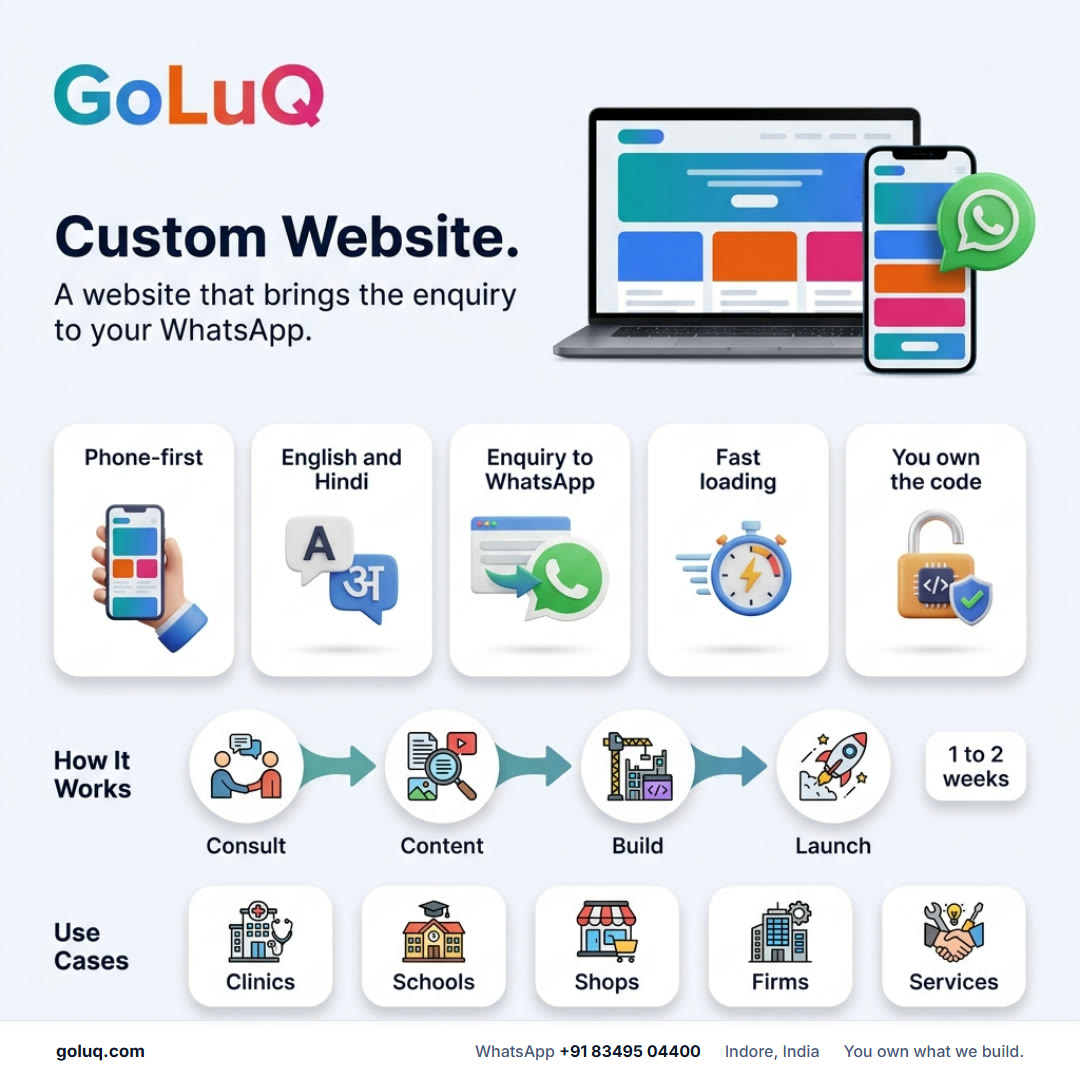
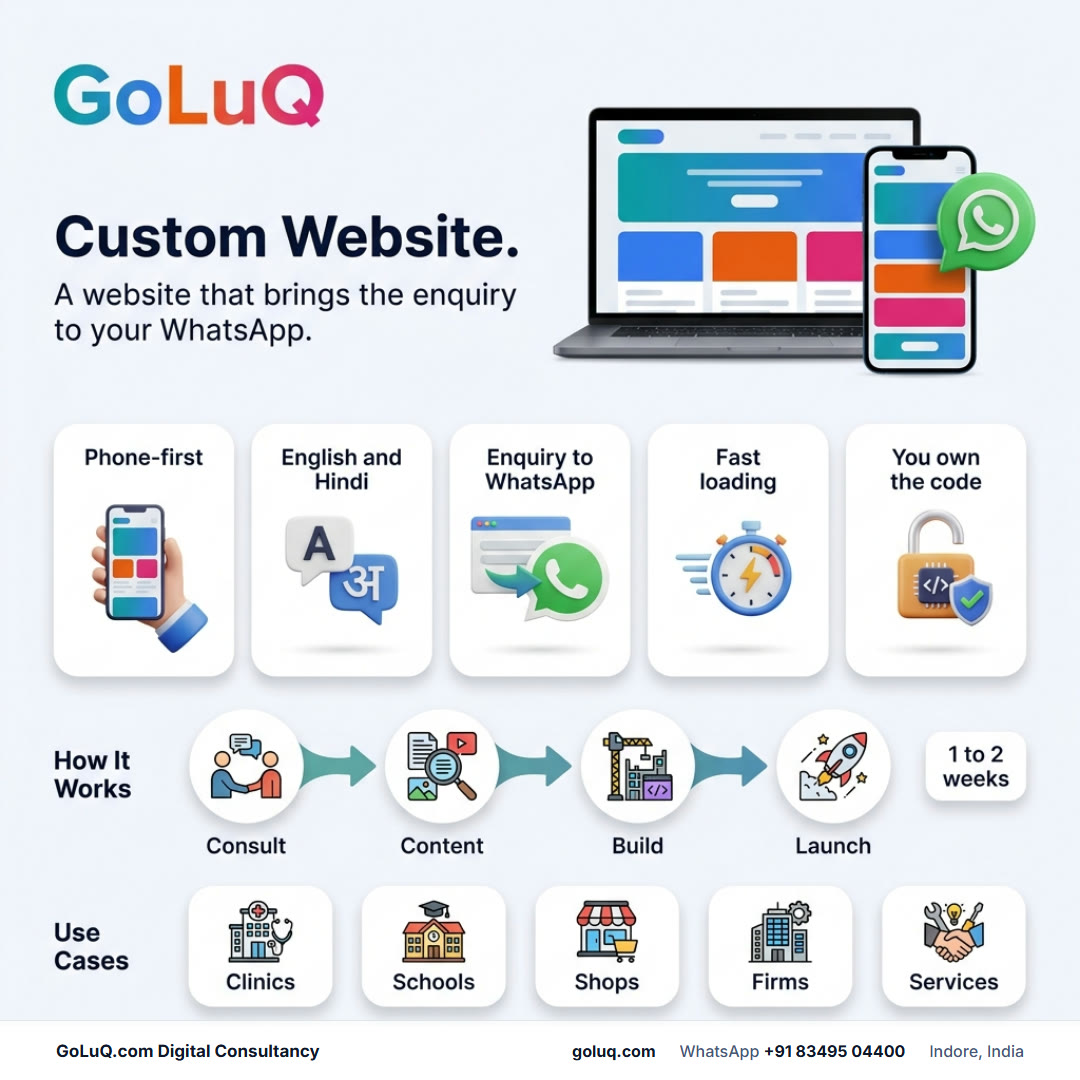
fix: voice off stops the narration at once; phone chapters put words below the art; full brand name on cards
Cancelling an utterance fired its onend, which started the next line — so
"voice off" cut one sentence and the story kept talking. Narrations now carry
a generation; a stop invalidates the sequence. On phones each chapter is the
picture on top and the words on a solid panel below, so nothing covers the
art. Catalogue card footers and the Meta brand field read
"GoLuQ.com Digital Consultancy".

Changed region(s): [[0.4278, 0.9472, 0.9472, 0.9778], [0.0611, 0.9472, 0.3056, 0.9778]]

diff --git a/src/components/story/StoryChapters.tsx b/src/components/story/StoryChapters.tsx
@@ -193,16 +193,19 @@ function Chapter({ id, index, region, onEnter }: { id: ChapterId; index: number;
       className="relative snap-start overflow-hidden bg-black lg:bg-transparent"
       onClick={() => setAfter((a) => !a)}
     >
-      {/* Phone: the scene is the screen. */}
-      <div className="relative min-h-[100svh] lg:hidden">
-        <Scene id={id} after={after} eager={index === 0} reduced={reduced} className="absolute inset-0" />
-        <div className="absolute inset-x-0 bottom-0 h-[72%] bg-gradient-to-t from-black/95 via-black/70 to-transparent" aria-hidden="true" />
-        <div className="absolute inset-x-0 bottom-0 z-10 px-5 pb-20 pr-16 sm:px-8">{words(true)}</div>
-        {index === 0 && (
-          <motion.div aria-hidden="true" animate={reduced ? undefined : { y: [0, 6, 0] }} transition={{ repeat: Infinity, duration: 1.6 }} className="absolute bottom-6 left-1/2 z-10 -translate-x-1/2 text-white/70">
-            <ChevronDown size={22} />
-          </motion.div>
-        )}
+      {/* Phone: picture on top, words below it — never on top of the art. */}
+      <div className="flex min-h-[100svh] flex-col lg:hidden">
+        <div className="relative h-[52svh] shrink-0">
+          <Scene id={id} after={after} eager={index === 0} reduced={reduced} className="absolute inset-0" />
+          {/* A soft fade into the caption panel, so the join reads as one card. */}
+          <div className="absolute inset-x-0 bottom-0 h-16 bg-gradient-to-t from-[#0B1020] to-transparent" aria-hidden="true" />
+          {index === 0 && (
+            <motion.div aria-hidden="true" animate={reduced ? undefined : { y: [0, 6, 0] }} transition={{ repeat: Infinity, duration: 1.6 }} className="absolute bottom-3 left-1/2 z-10 -translate-x-1/2 text-white/70">
+              <ChevronDown size={22} />
+            </motion.div>
+          )}
+        </div>
+        <div className="flex flex-1 flex-col justify-start bg-[#0B1020] px-5 pb-24 pr-20 pt-4 sm:px-8">{words(true)}</div>
       </div>
 
       {/* Desk: portrait scene beside the words. */}

diff --git a/src/lib/speak.ts b/src/lib/speak.ts
@@ -63,7 +63,16 @@ export function isSpeechSupported(): boolean {
   return typeof window !== "undefined" && "speechSynthesis" in window;
 }
 
+/**
+ * Every narration belongs to a generation. Cancelling an utterance makes the
+ * browser fire its onend/onerror, which used to start the NEXT line of the
+ * sequence — so "voice off" cut one line and the story kept talking. A stop
+ * bumps the generation; a sequence that is not current goes silent for good.
+ */
+let generation = 0;
+
 export function stopSpeaking() {
+  generation += 1;
   if (isSpeechSupported()) window.speechSynthesis.cancel();
 }
 
@@ -104,10 +113,13 @@ export async function speakSequence(
   }
   await loadVoices();
   window.speechSynthesis.cancel();
+  const mine = ++generation;
 
   let i = 0;
   let started = false;
   const next = () => {
+    // Stopped, or superseded by a newer narration: do not speak another word.
+    if (mine !== generation) return;
     if (i >= lines.length) {
       handlers.onEnd?.();
       return;

diff --git a/functions/api/admin/products.ts b/functions/api/admin/products.ts
@@ -178,7 +178,7 @@ async function syncToMeta(env: Env): Promise<Response> {
         currency: "INR",
         availability: p.availability === "out of stock" ? "out of stock" : "in stock",
         condition: "new",
-        brand: "GoLuQ",
+        brand: "GoLuQ.com Digital Consultancy",
         image_url: abs(p.image_path),
         ...(extra.length ? { additional_image_urls: extra.map((x: string) => abs(x)) } : {}),
         url: abs(p.url) || `${ORIGIN}/services`,
